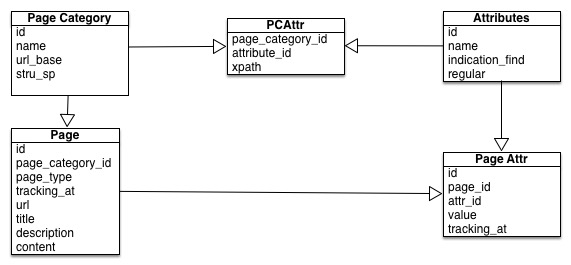
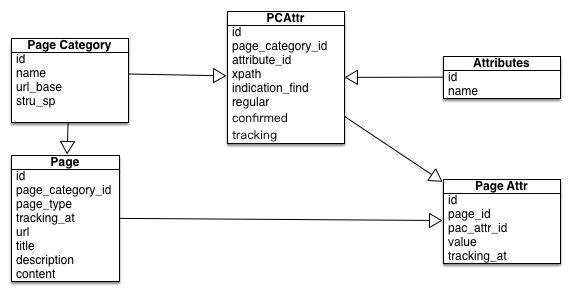
page data objectifition and data save port

diff --git a/lib/crawler/page/page.rb b/lib/crawler/page/page.rb
@@ -2,15 +2,19 @@
 require "crawler/report/page_diff"
 require 'crawler/page/simple_code'
 require 'crawler/page/to_object'
+require 'crawler/db'
+require 'crawler/db/sql'
+require 'digest/sha1'
 
 module Crawler
 	module Page
 		class Page
 			attr_accessor :page_type, :sp, :url, :title, :description, 
-							:content, :nokogiri_object, :diff_hash
+							:content, :nokogiri_object, :diff_hash, :attributes_item, :invalid_item
 
 			include SimpleCode
 			include ToObject
+			include DB::SQL
 
 			# page type
 			DETAIL = 0
@@ -50,6 +54,66 @@ module Crawler
 			def stru_record_exist?
 				# 查询数据库判断 @sp 是否存在
 				false
+			end
+
+			def get_base_url
+				self.url.split("/")[0..-2].join("/")
+			end
+
+			def get_sp
+				Digest::SHA1.hexdigest(self.sp.keys.join.gsub("-", ""))
+			end
+
+			def save
+				@dbh = DB.Connection
+
+				# save page_category unless url_exist? self.url
+				@dbh.query(sql_insert_page_category(get_base_url, get_sp)) unless url_exist? self.url
+				page_category_id = @dbh.last_id
+				printf "Page Category ID: %d\n", page_category_id
+
+				# except repeat save atrribute and reinit @attributes_item
+				save_new_attributes
+				puts "Attributes ID List: #{@attributes_item.map{|item|item[:id]}}"
+
+				# save pc_attr unless attr id list nil
+				@dbh.query(sql_insert_pc_attr(@attributes_item, page_category_id))
+				puts "PC Attr Save Done."
+				# save page
+				@dbh.query(sql_insert_page(page_category_id, Page::DETAIL, @url, @title, @description, @content))
+				page_id = @dbh.last_id
+				printf "Page Save Done, Page ID: %d\n", page_id
+				# save page attr
+				save_page_attr_value page_id
+				puts "Page Attr Value Save Done."
+			end
+			private
+			def save_page_attr_value page_id
+				@attributes_item.each do |item|
+					attr_value = @nokogiri_object.at_xpath(item[:path]).text()[item[:name].size..-1]
+					@dbh.query(sql_insert_page_attr(page_id, item[:id], attr_value))
+				end
+			end
+
+			def save_new_attributes
+				#** it's would take too long time, need to be enhancement.
+				# if there has some attribute exist in database, then set id for it.
+				result = @dbh.query(sql_confirm_attribute_exist @attributes_item.map{|x|x[:name]}.join("\",\""))
+				@attributes_item.collect do |row|
+					row[:id] = result.find{|x|x["name"]==row[:name]}["id"] rescue nil
+				end
+				# insert
+				sql = sql_insert_attributes(@attributes_item)
+				@dbh.query(sql) unless sql.nil?
+				# get max record id after insert
+				to_id = @dbh.last_id
+				# update @attributes_item where new insert record's id column
+				id_nil_items = @attributes_item.select{|item|item[:id].nil?}
+				id_nil_items_size = id_nil_items.size
+				id_nil_items.collect do |x|
+					x[:id] = to_id - id_nil_items_size + 1
+					id_nil_items_size -= 1
+				end
 			end
 		end
 	end

diff --git a/lib/crawler/page/to_object.rb b/lib/crawler/page/to_object.rb
@@ -11,24 +11,42 @@ module Crawler
 			end
 
 			def objectification
-				@diff_hash[:diff].each do |diff_item|
-					html = @nokogiri_object.at_xpath(diff_item[0].values[0][:xpath]).to_html
-					content = get_entity_attr html.gsub(/<\/?.*?>/, "")
-					get_entity_attr content unless content.nil?
+				@invalid_item = []
+				@attributes_item = []
+				@diff_hash[:diff].each do |diff_item|					
+					left_content, right_content = get_both_content diff_item
+					unless re_init_title_or_description left_content, right_content # 从新定义title和description
+						# 拉取attribute列表
+						attr_name = get_attribute left_content[0..20].gsub(" ", ""), right_content[0..20].gsub(" ", "")
+						if attr_name.nil? or attr_name==""
+							(@invalid_item << diff_item.keys[0])
+						else
+							(@attributes_item << {:name => attr_name, :path => diff_item.values[0].values[0][:xpath]})
+						end
+					end
 				end
 			end
 
-			def get_entity_attr content
-				if content.size<150 and is_title? content
-					@title = content
-				elsif is_description? content
-					nil
-				# elsif attr_exist
-				# 	break
-				else
-					#不存在
-					nil
+			def re_init_title_or_description str1, str2
+				if str1.size<150 and is_title? str1
+					@title = str1
+					return true
+				elsif is_description? str1
+					@description = str1
+					return true
 				end
+				return false
+			end
+
+			# e.g. {"3-2-2-7-1-1"=>{:l=>{:name=>"span", :id=>nil, :class=>"stockName", :content=>"中房地产(SZ:000736)", :xpath=>"/html/body/div[3]/div[2]/div[2]/div[1]/div[1]/span[1]"},:r=>{:name=>"span", :id=>nil, :class=>"stockName", :content=>"中国电影(SH:600977)", :xpath=>"/html/body/div[3]/div[2]/div[2]/div[1]/div[1]/span[1]"}}}
+			def get_both_content hash
+				result = hash.values.map(&:values)[0].map{|i|i[:content]}
+				return result.first, result.last
+			end
+
+			def get_attribute str1, str2
+				str1.split(/[^'’[^\p{P}]]/).first == str2.split(/[^'’[^\p{P}]]/).first ?
+					str1[/[\u4E00-\u9FA5]*/] : nil
 			end
 		end
 	end

diff --git a/lib/crawler/db/sql.rb b/lib/crawler/db/sql.rb
@@ -10,6 +10,39 @@ EOS
 			PAGE_CATEGORY = <<-EOS
 select * from page_category;
 EOS
+
+			ATTRIBUTES_MAX_ID= <<-EOS
+select max(id) from attributes;
+EOS
+
+			def sql_insert_page_category url, stru_sp
+				raise "(PageCategory:) Insert data could not be blank!" if url == "" or stru_sp == ""
+				"INSERT INTO page_category (url_base, stru_sp) VALUES(\"#{url}\", \"#{stru_sp}\"); "
+			end
+
+			def sql_confirm_attribute_exist str
+				"select * from attributes where name in (\"#{str}\");"
+			end
+
+			def sql_insert_attributes attr = []
+				raise "(Attributes:) Insert data could not be blank!" if attr.empty?
+				str = attr.select{|item|item[:id].nil?}.map{|n|"\"#{n[:name]}\""}.join("),(")
+				return nil if str==""
+				"INSERT INTO attributes (name) VALUES (#{str}); "
+			end
+
+			def sql_insert_pc_attr attr, page_category_id
+				str = attr.map{|x|"#{page_category_id}, \"#{x[:id]}\", \"#{x[:path]}\", true, null, true, true"}.join("),(")
+				"INSERT INTO pc_attr (page_category_id, attribute_id, xpath, indication_find, regular, confirmed, tracking) VALUES(#{str}); "
+			end
+
+			def sql_insert_page page_category_id, page_type, url, title, description, content
+				"INSERT INTO page (page_category_id, page_type, tracking_at, url, title, description, content) VALUES (#{page_category_id}, #{page_type}, NOW(), \"#{url}\", \"#{title}\", \"#{description}\", \"#{content}\");"
+			end
+
+			def sql_insert_page_attr page_id, pc_attr_id, value
+				"INSERT INTO page_attr (page_id, attr_id, value, tracking_at) VALUES (#{page_id}, #{pc_attr_id}, \"#{value}\", NOW());"
+			end
 		end
 	end
 end

diff --git a/lib/crawler/db/connection.rb b/lib/crawler/db/connection.rb
@@ -28,10 +28,18 @@ module Crawler
 
 			def query(sql = "")
 				puts "SQL could not be blank." if sql == ""
-				result = @dbh.query(sql)
+				begin
+					result = @dbh.query(sql)
+				rescue Mysql2::Error => e
+					binding.pry
+				end
 				printf "(DB:) #{sql}\n"
 				printf "%d rows were inserted:\n", @dbh.affected_rows
 				result
+			end
+
+			def last_id
+				@dbh.last_id
 			end
 		end
 	end

diff --git a/lib/crawler/page/simple_code.rb b/lib/crawler/page/simple_code.rb
@@ -57,7 +57,7 @@ module Crawler
 							commen_stru[sp1] = [hash_1[sp1], hash_2[sp2]]
 						else
 							print_comparsion sp1, sp2, hash_1[sp1], hash_2[sp2] if r_print
-							diff_stru[:diff] << [{sp1 => hash_1[sp1]}, {sp2 => hash_2[sp2]}]
+							diff_stru[:diff] << {sp1 => {:l => hash_1[sp1], :r => hash_2[sp2]}}
 						end
 						sp1_index += 1
 						sp2_index += 1

diff --git a/example/get_page_content.rb b/example/get_page_content.rb
@@ -21,7 +21,8 @@ module Crawler
 					puts "There has somthing wrong."
 				end
 			end
-			# page.save
+			page.attributes_item
+			page.save
 		end
 	end
 end
